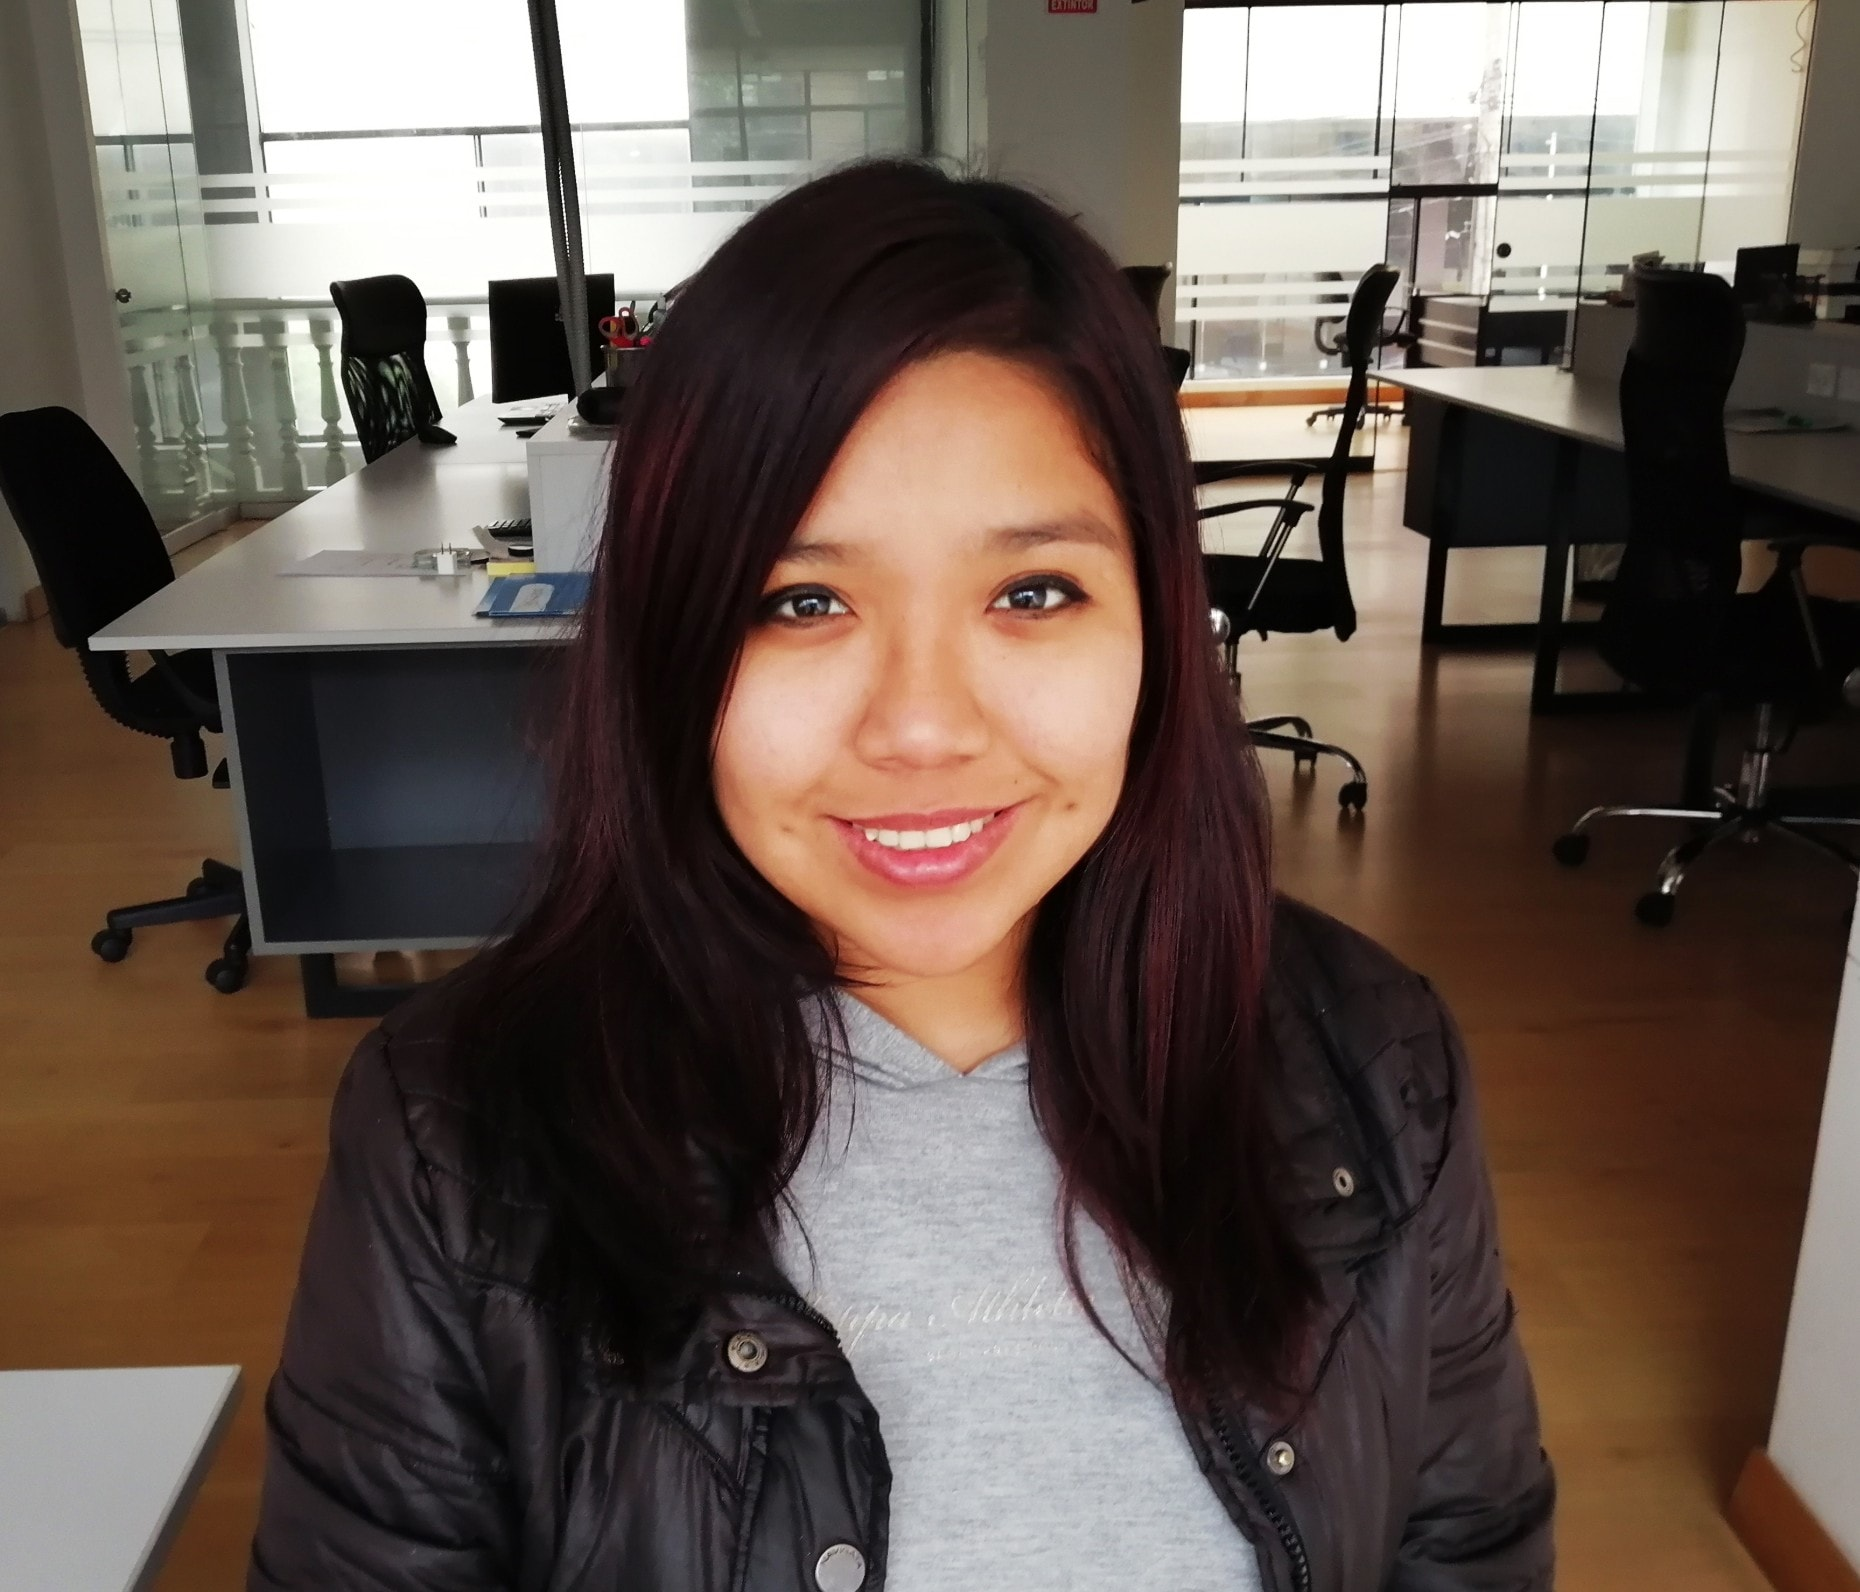
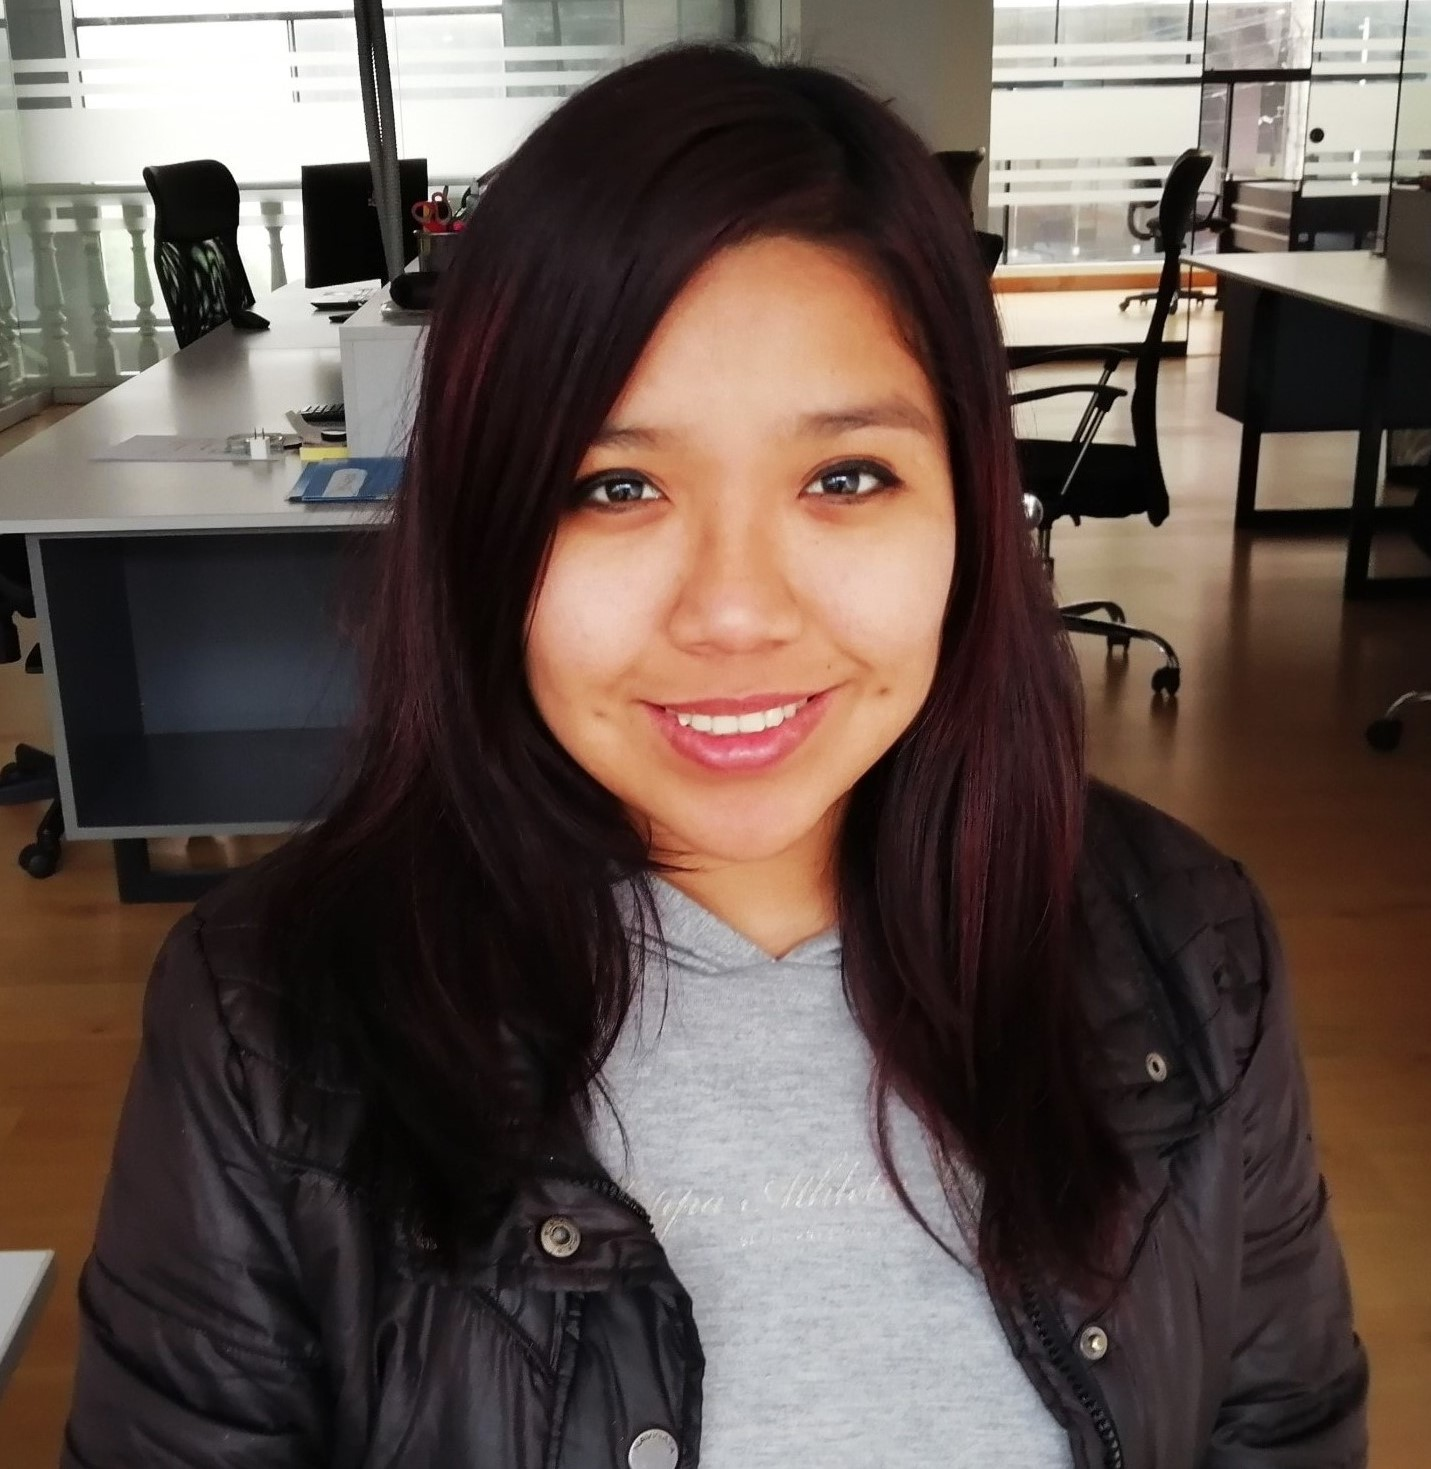
subiendo actualizaciones de portafolio

diff --git a/style.css b/style.css
@@ -83,14 +83,23 @@ div.arrow-logo span{
     left: 0;
     text-align: center;
 }
-.contenedor-img-perfil .img-perfil{
-    /* width: 100%; */
-    /* height: 100%; */
+.contenedor-img-perfil .img-perfil.front{
+    position: absolute;
+    left: 0;
+    /* max-width: 355px; */
+    right: 0;
+    margin: auto;
+    min-height: 410px;
+    z-index: -1;
+}
+.contenedor-img-perfil .img-perfil.in{
+    animation: foto 20s infinite alternate;
 }
 section#presentacion{
     position: relative;
     padding-top: 25px;
     height: 100vh;
+    z-index: 0;
     background-image: url(./imagenes/fondo-abstracto.png);
 }
 .subtexto{
@@ -399,4 +408,8 @@ background: linear-gradient(to right, #38ef7d, #11998e); /* W3C, IE 10+/ Edge, F
 @keyframes title-move {
     0% {transform: scaleY(0.7);}
     100% {transform: scaleY(1);}
+}
+@keyframes foto {
+    0% {opacity: 1;}
+    100% {opacity: 0;}
 }

diff --git a/index.html b/index.html
@@ -86,7 +86,8 @@
           </div> -->
 
               <div class="contenedor-img-perfil">
-                  <img class="img-perfil" width="400" src="imagenes/andrea-perfil.jpg">
+                  <img class="img-perfil in" width="400" src="imagenes/andrea-perfil.jpg">
+                  <img class="img-perfil front" width="400" src="imagenes/foto-perfil2.jpg">
               </div>
               <div class="text-container">
                   <p>  Mi nombre es Andrea Ybañez, tengo 22 años, soy Front-End Developer de la 8va promoción de Laboratoria, con estudios en Ingenieria de Sistemas.
